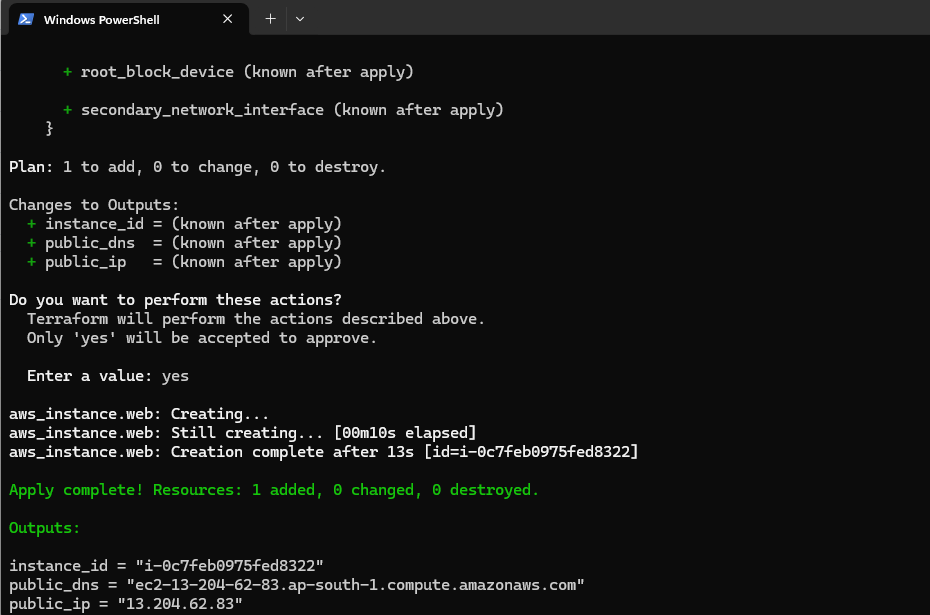
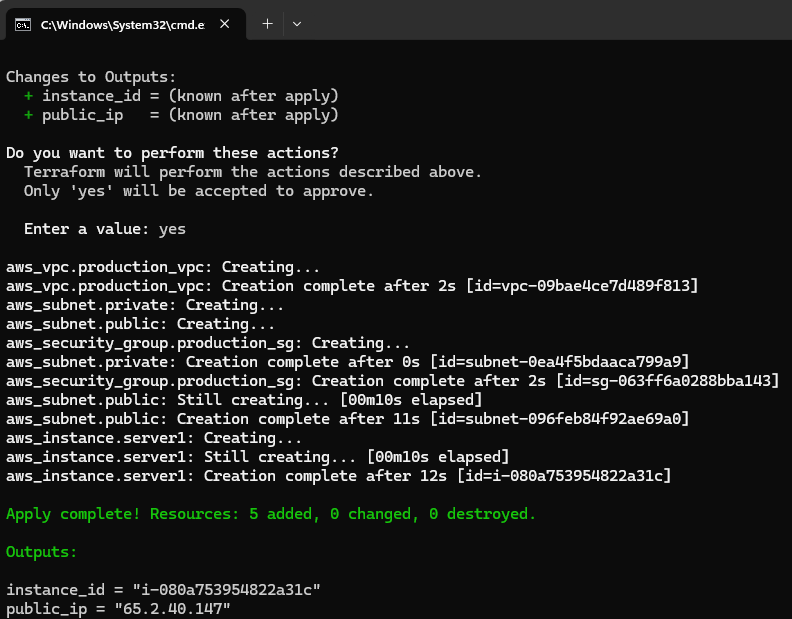
Fix images path

Changed region(s): [[0.0, 0.0927, 1.0, 1.0], [0.0, 0.0, 1.0, 0.0618]]

diff --git a/README.md b/README.md
@@ -1,7 +1,6 @@
-<<<<<<< HEAD
 # Terraform AWS Web Infrastructure
 
-Deploy AWS infrastructure using Terraform, including a custom VPC, public and private subnets, security groups, and an EC2 instance.
+Deploy AWS infrastructure using Terraform, including a custom VPC, public and private subnets, a security group, and an EC2 instance.
 
 ## Overview
 
@@ -9,13 +8,13 @@ This project demonstrates Infrastructure as Code (IaC) using Terraform to provis
 
 The infrastructure includes:
 
-* Custom VPC
-* Public Subnet
-* Private Subnet
-* Security Group
-* EC2 Instance
-* Terraform Variables
-* Terraform Outputs
+- Custom VPC
+- Public Subnet
+- Private Subnet
+- Security Group
+- EC2 Instance
+- Terraform Variables
+- Terraform Outputs
 
 This project was created to practice AWS networking fundamentals, Terraform resource dependencies, and infrastructure provisioning.
 
@@ -46,43 +45,22 @@ Security Group
 
 ## Resources Created
 
-| Resource       | Purpose                                    |
-| -------------- | ------------------------------------------ |
-| VPC            | Custom AWS network                         |
-| Public Subnet  | Hosts public-facing resources              |
-| Private Subnet | Reserved for future internal resources     |
-| Security Group | Controls inbound and outbound traffic      |
-| EC2 Instance   | Compute resource deployed in public subnet |
+| Resource | Purpose |
+|----------|---------|
+| VPC | Custom AWS network |
+| Public Subnet | Hosts public-facing resources |
+| Private Subnet | Reserved for future internal resources |
+| Security Group | Controls inbound and outbound traffic |
+| EC2 Instance | Compute resource deployed in public subnet |
 
 ---
-=======
-# Terraform AWS EC2 Deployment
-
-Deploy an Amazon EC2 instance on AWS using Terraform with variables, outputs, and resource tagging.
-
-## Overview
-
-This project demonstrates Infrastructure as Code (IaC) using Terraform to provision an EC2 instance in AWS. It uses Terraform variables for configuration, outputs for resource information, and follows a clean project structure suitable for learning and portfolio purposes.
-
-## Features
-
-* Deploy AWS EC2 instance using Terraform
-* Configurable through variables
-* Resource tagging
-* Outputs for instance details
-* Version-controlled infrastructure
-* Beginner-friendly Terraform project
->>>>>>> af33c2db38991f2ce4dda3744df5169b2aabfa6e
 
 ## Project Structure
 
 ```text
-<<<<<<< HEAD
 terraform-aws-web-infrastructure/
-
 ├── diagrams/
 │   └── architecture.png
-│
 ├── images/
 │   ├── terraform-plan.png
 │   ├── terraform-apply.png
@@ -91,69 +69,42 @@ terraform-aws-web-infrastructure/
 │   ├── security-group.png
 │   ├── ec2-instance.png
 │   └── terraform-output.png
-│
 ├── main.tf
 ├── variables.tf
 ├── outputs.tf
 ├── terraform.tfvars.example
-│
-=======
-terraform-aws-ec2/
-├── main.tf
-├── variables.tf
-├── terraform.tfvars.example
-├── outputs.tf
->>>>>>> af33c2db38991f2ce4dda3744df5169b2aabfa6e
 ├── .gitignore
 ├── .terraform.lock.hcl
 └── README.md
 ```
 
-<<<<<<< HEAD
 ---
 
 ## Technologies Used
 
-* Terraform
-* AWS VPC
-* AWS EC2
-* AWS Security Groups
-* AWS Provider
-* Git & GitHub
+- Terraform
+- AWS VPC
+- AWS EC2
+- AWS Security Groups
+- AWS Provider
+- Git & GitHub
 
 ---
 
-=======
-## Technologies Used
-
-* Terraform
-* Amazon EC2
-* AWS Provider
-* Git & GitHub
-
->>>>>>> af33c2db38991f2ce4dda3744df5169b2aabfa6e
 ## Prerequisites
 
 Before using this project, ensure you have:
 
-* Terraform installed
-* AWS account
-* AWS CLI configured
-<<<<<<< HEAD
-* Appropriate AWS permissions
+- Terraform installed
+- AWS account
+- AWS CLI configured
+- Appropriate AWS permissions
 
 ---
 
 ## Configuration
 
-Create:
-=======
-* Appropriate AWS permissions to create EC2 instances
-
-## Configuration
-
 Create a file named:
->>>>>>> af33c2db38991f2ce4dda3744df5169b2aabfa6e
 
 ```text
 terraform.tfvars
@@ -162,21 +113,12 @@ terraform.tfvars
 Example:
 
 ```hcl
-<<<<<<< HEAD
 ami_id        = "ami-xxxxxxxxxxxxxxxxx"
 instance_type = "t3.micro"
 ```
 
 ---
 
-=======
-aws_region    = "ap-south-1"
-ami_id        = "ami-xxxxxxxxxxxxxxxxx"
-instance_type = "t3.micro"
-instance_name = "terraform-web"
-```
-
->>>>>>> af33c2db38991f2ce4dda3744df5169b2aabfa6e
 ## Terraform Workflow
 
 Initialize Terraform:
@@ -185,15 +127,12 @@ Initialize Terraform:
 terraform init
 ```
 
-<<<<<<< HEAD
 Format Terraform files:
 
 ```bash
 terraform fmt
 ```
 
-=======
->>>>>>> af33c2db38991f2ce4dda3744df5169b2aabfa6e
 Validate configuration:
 
 ```bash
@@ -212,68 +151,47 @@ Deploy infrastructure:
 terraform apply
 ```
 
-<<<<<<< HEAD
-=======
 Refresh Terraform state:
 
 ```bash
 terraform apply -refresh-only
 ```
 
->>>>>>> af33c2db38991f2ce4dda3744df5169b2aabfa6e
 Destroy infrastructure:
 
 ```bash
 terraform destroy
 ```
 
-<<<<<<< HEAD
 ---
 
-=======
->>>>>>> af33c2db38991f2ce4dda3744df5169b2aabfa6e
 ## Outputs
 
 After successful deployment Terraform displays:
 
-<<<<<<< HEAD
-* Public IP Address
-* Instance ID
-=======
-* Instance ID
-* Public IP Address
-* Public DNS
->>>>>>> af33c2db38991f2ce4dda3744df5169b2aabfa6e
+- Public IP Address
+- Instance ID
 
 Example:
 
 ```text
-<<<<<<< HEAD
-public_ip   = 65.2.40.147
-instance_id = i-080a753954822a31c
+public_ip   = xx.xx.xx.xx
+instance_id = i-xxxxxxxxxxxxxxxxx
 ```
 
 ---
 
-=======
-instance_id = i-xxxxxxxxxxxxxxxxx
-public_ip   = xx.xx.xx.xx
-public_dns  = ec2-xx-xx-xx-xx.compute.amazonaws.com
-```
-
->>>>>>> af33c2db38991f2ce4dda3744df5169b2aabfa6e
 ## Terraform Concepts Demonstrated
 
-* Providers
-* Resources
-* Variables
-* Outputs
-<<<<<<< HEAD
-* Resource Dependencies
-* State Management
-* Resource Tagging
-* AWS Networking Basics
-* VPC and Subnet Configuration
+- Providers
+- Resources
+- Variables
+- Outputs
+- Resource Dependencies
+- State Management
+- Resource Tagging
+- AWS Networking Basics
+- VPC and Subnet Configuration
 
 ---
 
@@ -308,40 +226,18 @@ public_dns  = ec2-xx-xx-xx-xx.compute.amazonaws.com
 ![Terraform Outputs](images/terraform-output.png)
 
 ---
-=======
-* State Management
-* Resource Tagging
-
-## Screenshots
-
-### Terraform Apply Successful
-
-
-![Terraform Apply](images/terraform-apply.png)
-
-### AWS EC2 Instance Running
-
-
-![EC2 Running](images/ec2-running.png)
-
-### Terraform Outputs
-
-
-![Terraform Outputs](images/terraform-output.png)
->>>>>>> af33c2db38991f2ce4dda3744df5169b2aabfa6e
 
 ## Learning Objectives
 
 This project was created to practice:
 
-* Infrastructure as Code (IaC)
-<<<<<<< HEAD
-* AWS Networking Fundamentals
-* Terraform Resource Dependencies
-* VPC and Subnet Creation
-* Security Group Configuration
-* EC2 Provisioning
-* GitHub Project Documentation
+- Infrastructure as Code (IaC)
+- AWS Networking Fundamentals
+- Terraform Resource Dependencies
+- VPC and Subnet Creation
+- Security Group Configuration
+- EC2 Provisioning
+- GitHub Project Documentation
 
 ---
 
@@ -349,12 +245,12 @@ This project was created to practice:
 
 Planned upgrades:
 
-* Internet Gateway
-* Route Tables
-* Route Table Associations
-* NGINX Installation using User Data
-* Load Balancer
-* Multi-Instance Deployment
+- Internet Gateway
+- Route Tables
+- Route Table Associations
+- NGINX Installation using User Data
+- Load Balancer
+- Multi-Instance Deployment
 
 ---
 
@@ -365,17 +261,3 @@ Planned upgrades:
 RHCSA Certified Linux Administrator
 
 Learning AWS, Terraform, Cloud Infrastructure, Automation, and Cybersecurity.
-=======
-* AWS EC2 provisioning
-* Terraform state management
-* Terraform variables and outputs
-* GitHub project organization
-
-## Author
-
-Pankaj
-
-RHCSA Certified Linux Administrator
-
-Learning AWS, Terraform, DevOps, and Cloud Infrastructure
->>>>>>> af33c2db38991f2ce4dda3744df5169b2aabfa6e